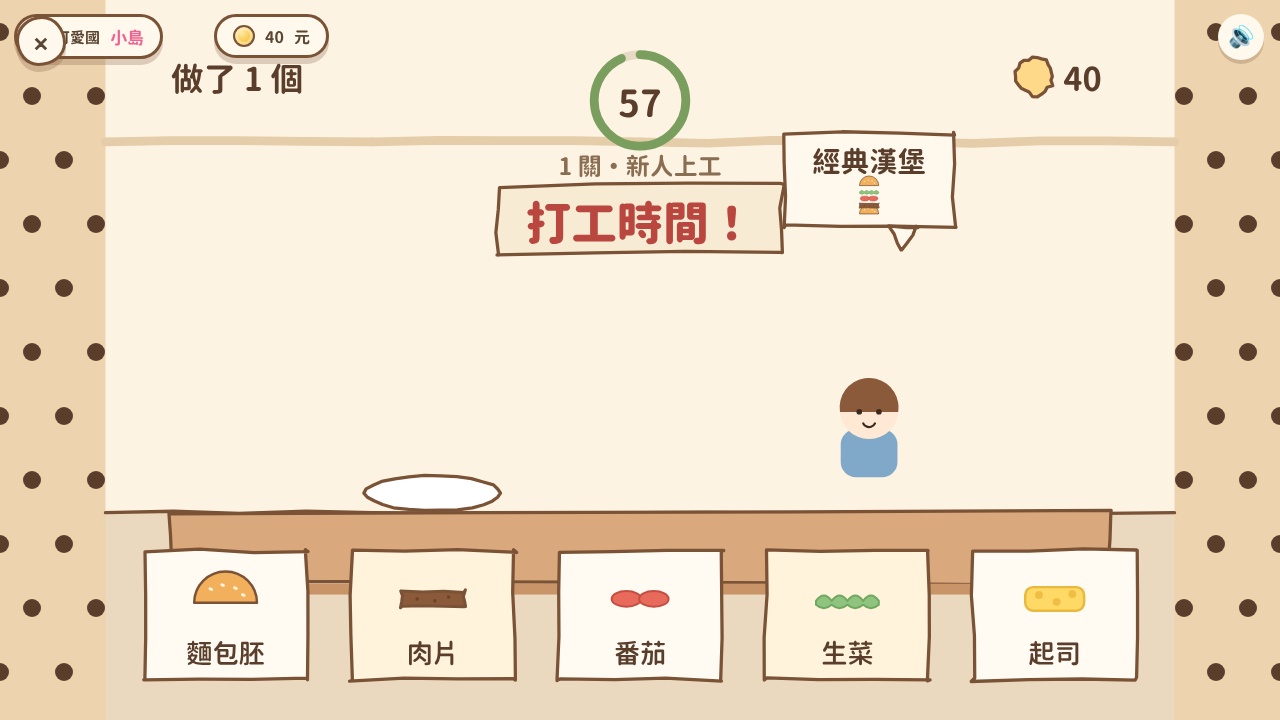
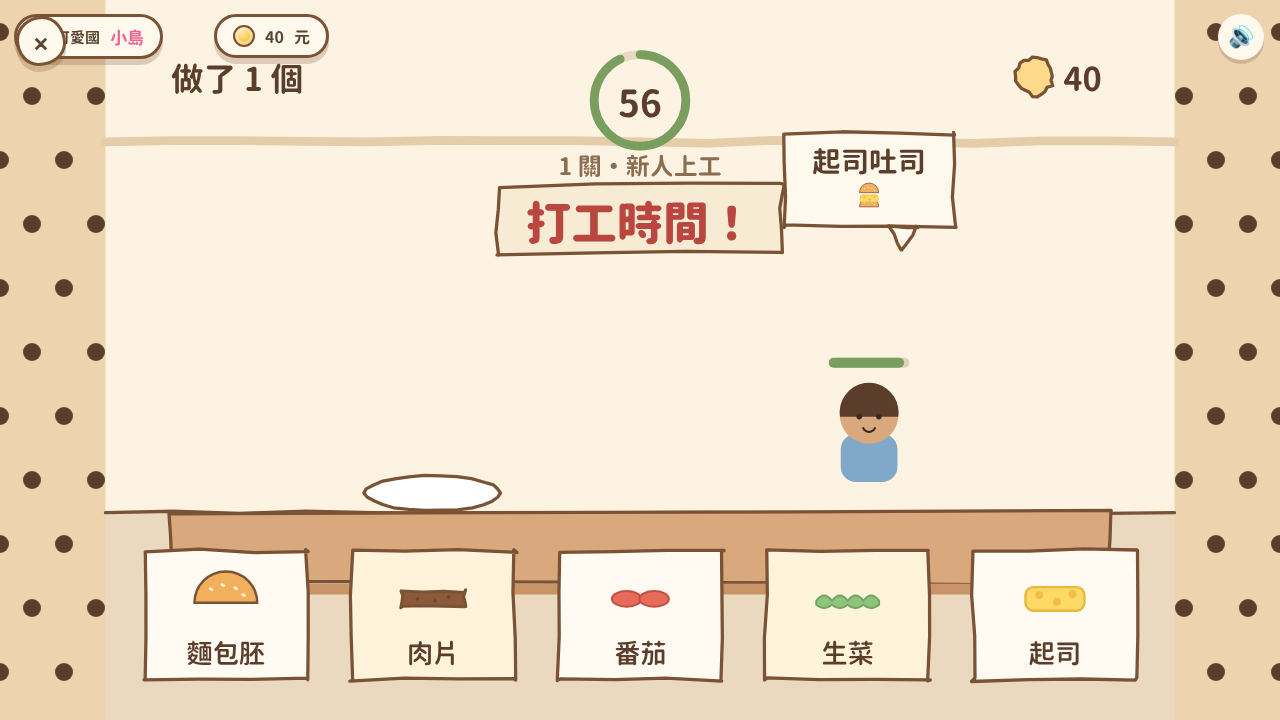
feat: 第十三輪c——排隊＋耐心＋尖峰客：多客排隊（越後越小越遠的透視深度）、每人獨立訂單小圖示、服務中客人耐心條（綠→橘→紅，歸零💢氣走、報廢已疊料）、滿意💖走人/氣走左離開的離場動畫、尖峰客⚡（耐心×0.6、工資×1.5、L4/L5 概率刷出）、離開後自動補客補滿排隊數

diff --git a/js/mini.js b/js/mini.js
@@ -42,11 +42,13 @@ function startWork(lv = 1) {
     stack: [],
     flying: null,
     shake: 0,
-    customer: null,
+    queue: [], /* 第十三輪c：排隊客人（[0] = 服務中） */
+    customer: null, /* = queue 裡第一個 state 'queue' 的（服務中） */
     count: 0,
+    misses: 0, /* 第十三輪c：氣走人數 */
     floaters: [],
   };
-  spawnCustomer();
+  while (Work.queue.length < level.queue) spawnCustomer(); /* 第十三輪c：一次補滿排隊 */
   $('#screen-shop').classList.add('hidden');
   $('#screen-work').classList.remove('hidden');
   setSub('work');
@@ -101,24 +103,36 @@ function saveGameEndShift() {
   saveGame(s);
 }
 
+/* 第十三輪c：排隊位置（[0] 在櫃台前；越往後越遠＝越小越高） */
+function queueSlot(i) {
+  return [700 - i * 95, 430 - i * 14, Math.max(0.48, 1 - i * 0.13)];
+}
+
 function spawnCustomer() {
   const hairs = ['#5A3E2B', '#3B2A1F', '#8A5A3B', '#2F2A26', '#7A4A3A'];
   const skins = ['#FFE9D4', '#F8D9B8', '#EFC39A', '#D9A87C'];
   const rnd = Math.random;
-  const L = Work.level;
+  const w = Work, L = w.level;
   const item = WORK_ITEMS[L.menu[Math.floor(rnd() * L.menu.length)]]; /* 第十三輪b：隨機點單品項 */
-  Work.customer = {
+  const rush = rnd() < L.rush; /* 第十三輪c：尖峰客（耐心×0.6、工資×1.5） */
+  const pat = Math.round(L.patience * (rush ? 0.6 : 1));
+  const [sx, sy, ss] = queueSlot(w.queue.filter(c => c.state === 'queue').length);
+  w.queue.push({
     item, /* { name, recipe, price } */
+    rush, patience: pat, patienceMax: pat,
     hair: hairs[Math.floor(rnd() * hairs.length)],
     skin: skins[Math.floor(rnd() * skins.length)],
     bob: rnd() * 10,
-  };
+    x: sx, y: sy, scale: 0, tx: sx, ty: sy, tScale: ss,
+    state: 'queue', /* queue → served / angry */
+    animT: 0,
+  });
 }
 
 /* 點擊食材卡（game.js 轉調） */
 function workClick(i) {
   const w = Work;
-  if (!w || w.phase !== 'play' || w.flying) return;
+  if (!w || w.phase !== 'play' || w.flying || !w.customer) return;
   const need = w.customer.item.recipe[w.stack.length]; /* 第十三輪b：依當前訂單食譜 */
   if (WORK_CARDS[i].id === need) {
     w.stack.push(need);
@@ -142,6 +156,7 @@ function updateWork(dt) {
 
   if (w.phase === 'count') {
     w.t += dt;
+    for (const c of w.queue) c.scale += (c.tScale - c.scale) * Math.min(1, dt * 4); /* 第十三輪c：倒數時排隊客長大入場 */
     if (w.t >= 3) w.phase = 'play';
     return;
   }
@@ -150,14 +165,45 @@ function updateWork(dt) {
       w.flying.t += dt / 0.55;
       if (w.flying.t >= 1) {
         w.flying = null;
-        const pay = Math.round(w.customer.item.price * w.level.payMul); /* 第十三輪b：品項價格 × 關卡倍率 */
+        const c = w.customer;
+        const pay = Math.round(c.item.price * w.level.payMul * (c.rush ? 1.5 : 1)); /* 第十三輪c：尖峰客 +50% */
+        c.state = 'served'; c.animT = 0; /* 第十三輪c：滿意走人 */
         w.stack = [];
         w.count += 1;
         Game.money += pay;
         w.floaters.push({ x: 700, y: 330, t: 0, txt: `+${pay}` });
         sfx('coin');
         syncMoneyUI();
-        spawnCustomer();
+      }
+    }
+    /* 第十三輪c：排隊動畫＋耐心值＋補客 */
+    for (const c of w.queue)
+      if (c.state !== 'queue') c.animT += dt;
+    w.queue = w.queue.filter(c => !(c.state !== 'queue' && c.animT >= 0.9));
+    w.customer = w.queue.find(c => c.state === 'queue') || null;
+    let qi = 0;
+    for (const c of w.queue) {
+      if (c.state !== 'queue') {
+        c.x += (c.state === 'served' ? 240 : -240) * dt; /* 滿意→右、氣走→左 */
+        c.scale = Math.max(0, c.scale - dt * 0.8);
+        continue;
+      }
+      const [qx, qy, qs] = queueSlot(qi++);
+      c.tx = qx; c.ty = qy; c.tScale = qs;
+      const k = Math.min(1, dt * 5);
+      c.x += (c.tx - c.x) * k; c.y += (c.ty - c.y) * k; c.scale += (c.tScale - c.scale) * k;
+    }
+    while (w.queue.filter(c => c.state === 'queue').length < w.level.queue) spawnCustomer();
+    const act = w.customer;
+    if (act) {
+      act.patience -= dt;
+      if (act.patience <= 0) {
+        act.patience = 0; act.state = 'angry'; act.animT = 0;
+        w.misses += 1;
+        if (w.flying) w.flying = null; /* 在半空的餐點作廢 */
+        w.stack = []; /* 已疊的料報廢 */
+        w.floaters.push({ x: act.x, y: act.y - 120, t: 0, txt: '💢 走了！' });
+        sfx('buzz');
       }
     }
     w.left -= dt;
@@ -229,17 +275,45 @@ function renderWork(ctx, t) {
   ctx.textAlign = 'left';
   ctx.fillText(`做了 ${w.count} 個`, 60, 72);
 
-  /* 客人 + 訂單氣泡 */
-  if (w.customer) drawCustomer(ctx, 700, 428, w.customer, t);
-  const bx = 700, by = 168;
-  handShape(ctx, [[bx - 78, by - 46], [bx + 78, by - 46], [bx + 78, by + 40], [bx - 78, by + 40]],
-    { fill: '#FFF8EC', seed: 76, amp: 2 });
-  handShape(ctx, [[bx + 18, by + 40], [bx + 44, by + 40], [bx + 30, by + 62]], { fill: '#FFF8EC', seed: 77, amp: 1 });
-  ctx.fillStyle = '#5A3E2B';
-  ctx.font = '700 26px RHR';
-  ctx.textAlign = 'center';
-  ctx.fillText(w.customer.item.name, bx, by - 20); /* 第十三輪b：顯示品項名 */
-  drawMenuItem(ctx, w.customer.item, bx, by + 14, 0.5);
+  /* 第十三輪c：排隊客人（由後往前畫＝遠的在後、近的前）＋訂單氣泡＋耐心條 */
+  for (let i = w.queue.length - 1; i >= 0; i--) {
+    const c = w.queue[i];
+    const leaving = c.state !== 'queue';
+    ctx.globalAlpha = leaving ? Math.max(0, 1 - c.animT / 0.9) : 1;
+    drawCustomer(ctx, c.x, c.y, c, t);
+    ctx.textAlign = 'center'; ctx.textBaseline = 'middle';
+    if (c.state === 'queue' && c.rush) {
+      ctx.font = '700 24px RHR';
+      ctx.fillText('⚡', c.x + 36 * c.scale, c.y - 84 * c.scale);
+    }
+    if (c.state === 'served') { ctx.font = '700 28px RHR'; ctx.fillText('💖', c.x, c.y - 96); }
+    if (c.state === 'angry') { ctx.font = '700 30px RHR'; ctx.fillText('💢', c.x, c.y - 96); }
+    if (c.state === 'queue' && c !== w.customer)
+      drawMenuItem(ctx, c.item, c.x, c.y - 104 * c.scale, 0.2); /* 排隊中的訂單小圖示 */
+    ctx.globalAlpha = 1;
+  }
+  if (w.customer) {
+    const c = w.customer;
+    const bx = 700, by = 168;
+    handShape(ctx, [[bx - 78, by - 46], [bx + 78, by - 46], [bx + 78, by + 40], [bx - 78, by + 40]],
+      { fill: '#FFF8EC', seed: 76, amp: 2 });
+    handShape(ctx, [[bx + 18, by + 40], [bx + 44, by + 40], [bx + 30, by + 62]], { fill: '#FFF8EC', seed: 77, amp: 1 });
+    ctx.fillStyle = '#5A3E2B';
+    ctx.font = '700 26px RHR';
+    ctx.textAlign = 'center';
+    ctx.fillText(c.item.name, bx, by - 20); /* 第十三輪b：顯示品項名 */
+    drawMenuItem(ctx, c.item, bx, by + 14, 0.5);
+    /* 第十三輪c：耐心條（服務中客人頭上） */
+    const pf = c.patience / c.patienceMax, pw = 74;
+    ctx.fillStyle = 'rgba(90,62,43,.18)';
+    roundRectPath(ctx, 700 - pw / 2, 328, pw, 9, 4.5);
+    ctx.fill();
+    if (pf > 0) {
+      ctx.fillStyle = pf > 0.5 ? '#7A9E5E' : pf > 0.25 ? '#E8A13C' : '#D94F4F';
+      roundRectPath(ctx, 700 - pw / 2, 328, Math.max(6, pw * pf), 9, 4.5);
+      ctx.fill();
+    }
+  }
 
   /* 盤子 + 疊起的料 */
   handEllipse(ctx, 300, 452, 62, 16, { fill: '#FFFFFF', lw: 3, seed: 78 });
@@ -407,6 +481,7 @@ function drawIngredient(ctx, id, x, y, s) {
 function drawCustomer(ctx, x, y, c, t) {
   ctx.save();
   ctx.translate(x, y);
+  ctx.scale(c.scale || 1, c.scale || 1); /* 第十三輪c：排隊深度縮放 */
   const bob = Math.sin(t * 2 + c.bob) * 2;
   /* 身體 */
   ctx.fillStyle = '#7FA8C9';
